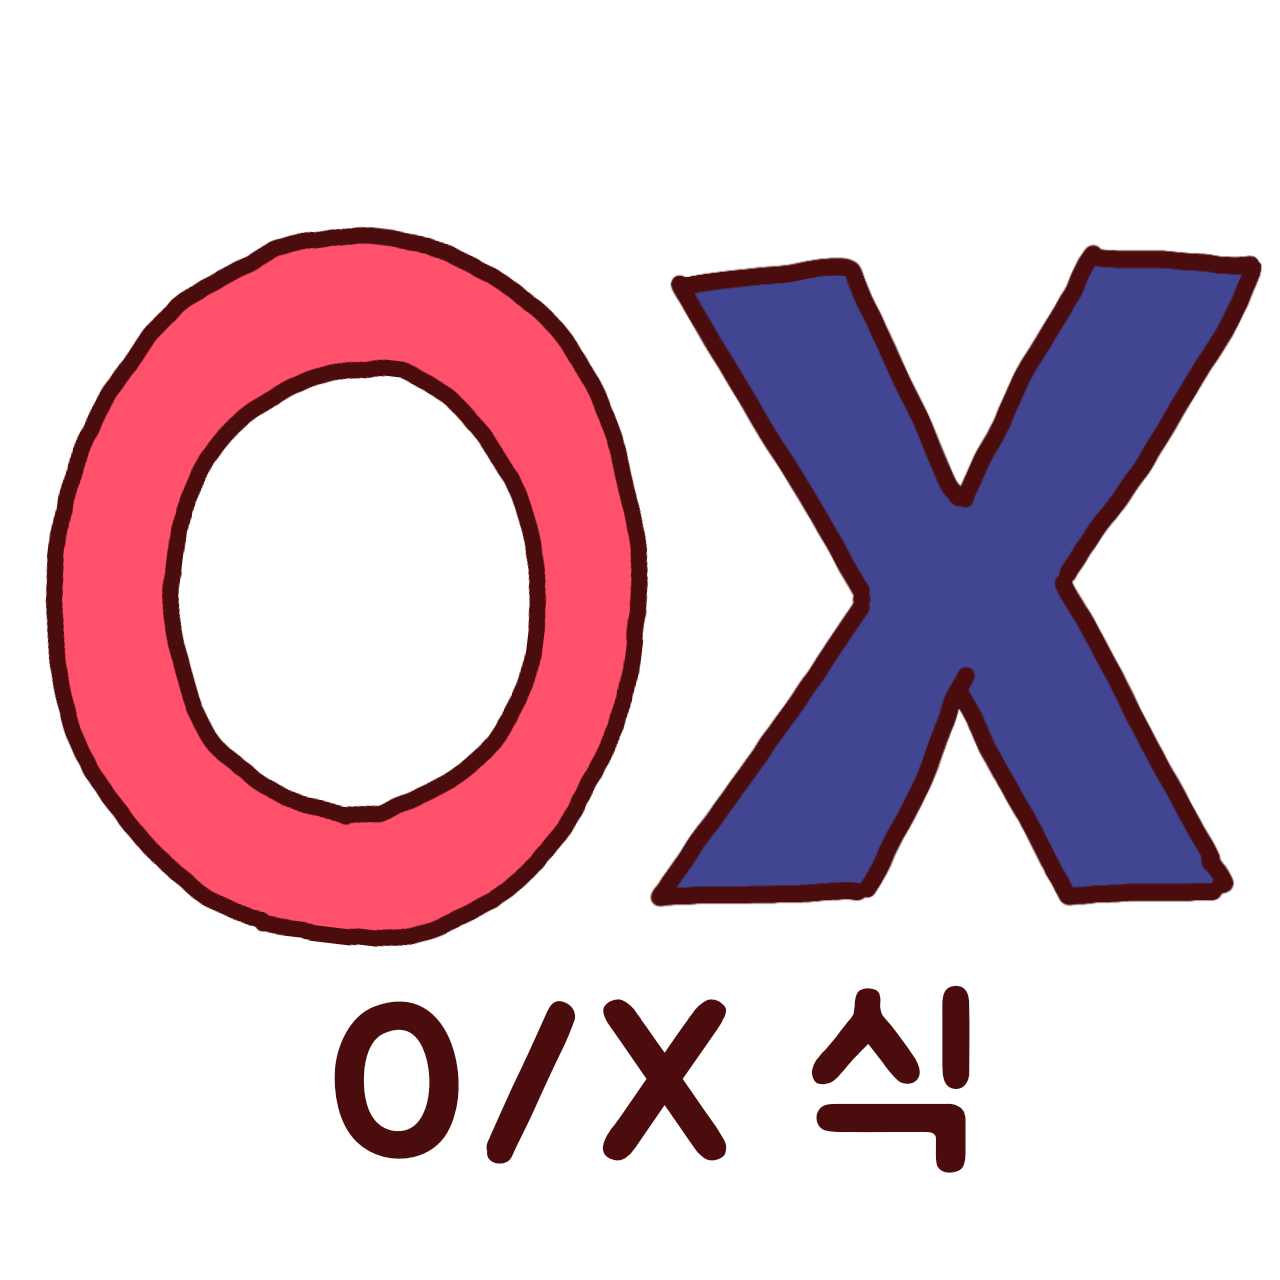
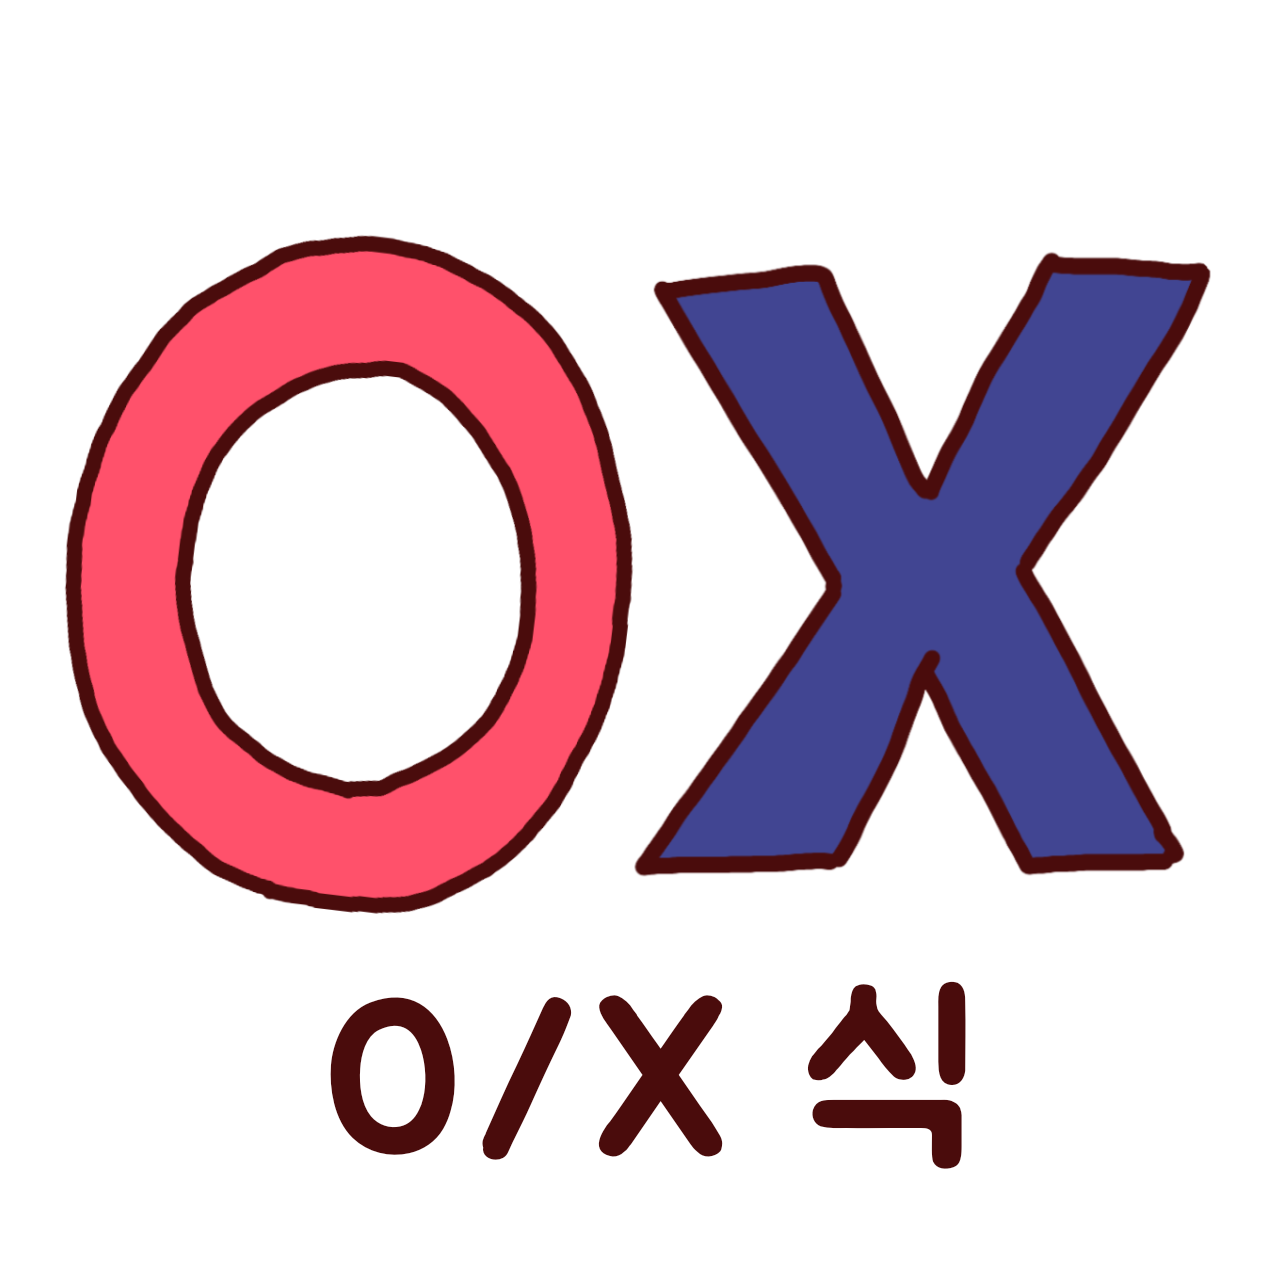
[Bug Fix]게임 생성 단계에서 페이지가 깨지는 문제 해결
-

diff --git a/front/WebPage/src/pages/GameCreationPage.jsx b/front/WebPage/src/pages/GameCreationPage.jsx
@@ -170,6 +170,37 @@ const GameCreationPage = () => {
     transition: "0.2s", // 클릭 시 부드럽게 변함
   });
 
+  const questionTypeCardStyle = (isSelected) => ({
+    ...cardStyle(isSelected),
+    backgroundColor: "#FFFFFF",
+    padding: "12px",
+    margin: 0,
+    overflow: "hidden",
+  });
+
+  const renderQuestionTypeCard = ({ type, icon, alt }) => (
+    <div
+      key={type}
+      style={questionTypeCardStyle(selectedQuestions.includes(type))}
+      onClick={() => toggleQuestion(type)}
+    >
+      <img
+        src={icon}
+        alt={alt}
+        style={{
+          width: "100%",
+          height: "100%",
+          maxWidth: "240px",
+          maxHeight: "240px",
+          objectFit: "contain",
+          display: "block",
+          pointerEvents: "none",
+          userSelect: "none",
+        }}
+      />
+    </div>
+  );
+
   const handleStepAction = () => {
     if (step === 2 && !hasLearningSource()) {
       alertSourceRequired();